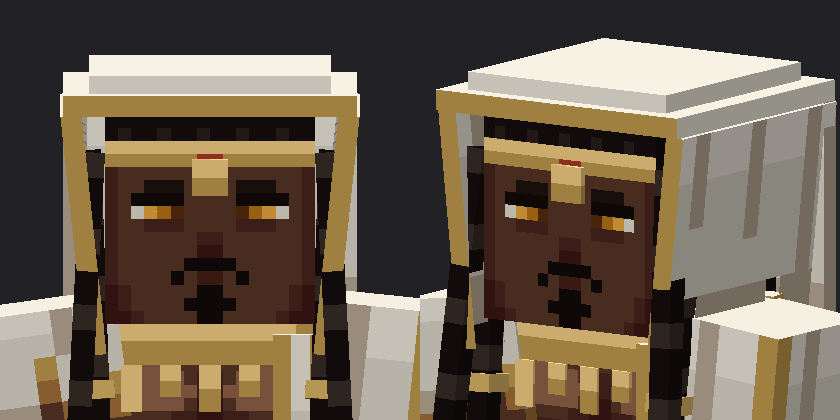
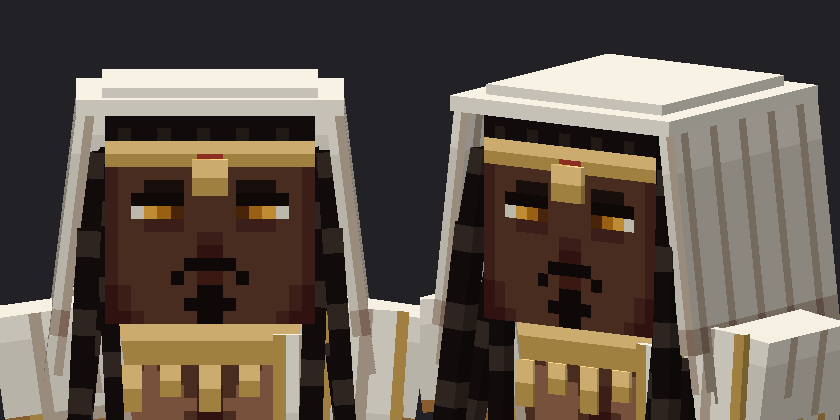
Sacerdote boceto 2: figura esbelta, manto hasta los tobillos, capucha que cae
- Altura 40 (torso 14, piernas 18), cabeza igual
- Manto trasero en 3 paneles con caida distinta y picos irregulares
- Caida larga del lado izquierdo hasta los tobillos
- Capucha mas chica, costados que se abren con borde irregular, sin marco dorado
- Rastas de distinto largo, grosor, angulo y anillos
- Sandalias con correas finas y piel visible; abdomen completo hasta la faja

Claude-Session: https://claude.ai/code/session_01JLSuk79QgXUucDMTiBYitK

Changed region(s): [[0.0, 0.0929, 1.0, 1.0], [0.65, 0.8667, 0.7119, 0.9286]]

diff --git a/taller/personajes/sacerdote.py b/taller/personajes/sacerdote.py
@@ -9,7 +9,7 @@ muñequeras y sandalias con correas.
 
 from ..kit import Personaje, dibujo, mezclar_pintores, sprite, tonos
 from ..pintura import metal
-from ..textura import TRANSPARENTE, hex_a_rgba
+from ..textura import TRANSPARENTE, azar, hex_a_rgba
 
 PIEL = tonos("#5A3828")
 PELO = "#16100E"
@@ -61,9 +61,9 @@ TORSO = dibujo("""
     PPPPPppqqppPPPPP
     PPPPPLLqqLLPPPPP
     PPPPLLLqqLLLPPPP
-    PPPPPppqqppPPPPP
-    PPPpPPPqqPPPpPPP
-    PPPPpPPPPPPpPPPP
+    PPpPPppqqppPPpPP
+    PPPpPPPPPPPPpPPP
+    PPPPpPPqqPPpPPPP
     PPPPPpPPPPpPPPPP
     PPPPPPpPPpPPPPPP
     PPPPPPPppPPPPPPP
@@ -92,23 +92,6 @@ PANEL = dibujo("""
     ...GG...
 """)
 PAL_PANEL = {"G": ORO["b"], "g": ORO["h"], "D": OSCURO["b"], "d": OSCURO["s"]}
-
-PIERNA = dibujo("""
-    PPPP
-    PPPP
-    PPPP
-    PPPP
-    PPPP
-    PPPP
-    PPPP
-    PPPP
-    kPPk
-    PkkP
-    kPPk
-    PkkP
-    kPPk
-    kkkk
-""")
 
 MUNEQUERA = dibujo("""
     GGGG
@@ -177,48 +160,83 @@ def piel_lisa(t):
     return hex_a_rgba(PIEL["s"] if t.fila_abajo == 0 and t.th > 2 else PIEL["b"])
 
 
+def picos(sem, prof=6, minimo=2, maximo=5, largo=96):
+    """Cortes por columna que dejan el borde de la tela en picos triangulares irregulares."""
+    out = []
+    k = 0
+    while len(out) < largo:
+        ancho = minimo + int(azar(sem, k, 1) * (maximo - minimo + 1))
+        hondo = 1 + int(azar(sem, k, 2) * prof)
+        for c in range(ancho):
+            mitad = (ancho - 1) / 2
+            out.append(round(abs(c - mitad) / max(0.5, mitad) * hondo))
+        k += 1
+    return out
+
+
+def pierna_sandalia(t):
+    """Piel con correas finas que suben cruzadas (piel visible entre las tiras)."""
+    if t.cara == "down":
+        return hex_a_rgba(PIEL["s"])
+    if t.cara == "up":
+        return hex_a_rgba(PIEL["b"])
+    h = t.fila_abajo
+    if h < 9 and ((t.i + h) % 7 == 0 or (t.i - h) % 7 == 0):
+        return hex_a_rgba(CUERO)
+    if h == 9:
+        return hex_a_rgba(CUERO)
+    return hex_a_rgba(PIEL["s"] if t.i in (0, t.tw - 1) else PIEL["b"])
+
+
 # ---------------------------------------------------------------- construccion
 
 def construir():
-    p = Personaje("sacerdote", altura=34)              # piernas mas largas: figura esbelta
-    C, L = p.cuello, p.lh                                # C = cuello (26), L = cintura (14)
+    # figura esbelta: cabeza normal (8), torso y piernas mas largos
+    p = Personaje("sacerdote", altura=40, torso=(8, 14, 4), brazo=(3.5, 4))
+    C, L = p.cuello, p.lh                                # C = cuello (32), L = cintura (18)
     oro = metal(ORO["b"], 3)
     oro_gema = metal(ORO["b"], 4, gema="#B03A2A")
 
     cabeza = sprite({"north": CARA}, PAL_CARA,
                     base=lambda t: hex_a_rgba(PELO if t.cara != "down" else PIEL["s"]))
     torso = sprite({"north": TORSO}, PAL_TORSO, base=piel_lisa)
-    pierna = sprite({"lados": PIERNA}, {"P": PIEL["b"], "k": CUERO}, base=piel_lisa)
-    p.cuerpo(cabeza=cabeza, torso=torso, brazo=piel_lisa, pierna=pierna, dens=2)
+    p.cuerpo(cabeza=cabeza, torso=torso, brazo=piel_lisa, pierna=pierna_sandalia, dens=2)
 
-    # ---- capucha: tela mas ancha que la cabeza, redondeada arriba, que cae a los costados y la espalda
-    capu = tela_blanca(oro_abajo=False, semilla=1, oro_frente=True)
-    p.caja("Head/capucha", "capucha_arriba", (-5.6, C + 8.0, -4.9), (5.6, C + 8.8, 5.6), capu)
-    p.caja("Head/capucha", "capucha_cima", (-4.6, C + 8.8, -4.2), (4.6, C + 9.5, 4.8),
+    # ---- capucha: mas chica, cima redondeada, costados que caen a los hombros con borde irregular
+    p.caja("Head/capucha", "capucha_arriba", (-5.1, C + 8.0, -4.7), (5.1, C + 8.6, 5.2),
+           tela_blanca(oro_abajo=False, semilla=1))
+    p.caja("Head/capucha", "capucha_cima", (-4.1, C + 8.6, -3.7), (4.1, C + 9.0, 4.4),
            tela_blanca(oro_abajo=False, semilla=2))
-    p.par("Head/capucha", "capucha_lado", (4.9, C - 1.2, -4.6), (5.7, C + 8.0, 5.6),
-          tela_blanca(cortes=[0, 1, 2, 1, 3, 0], oro_abajo=False, semilla=3, oro_frente=True),
-          rot=(0, 0, -6), piv=(5.3, C + 8.0, 0))
-    p.caja("Head/capucha", "capucha_atras", (-5.6, C - 2.0, 4.9), (5.6, C + 8.0, 5.7),
-           tela_blanca(cortes=[0, 1, 3, 1, 0, 2], oro_abajo=False, semilla=4))
-    # caida de la capucha sobre la espalda
-    p.caja("Body/capucha", "capucha_caida", (-4.6, C - 7.0, 2.4), (4.6, C + 0.6, 3.2),
-           tela_blanca(cortes=[0, 1, 2, 1, 0, 2, 3, 1, 0], semilla=5), rot=(-6, 0, 0), piv=(0, C + 0.6, 2.4))
+    p.par("Head/capucha", "capucha_lado", (4.4, C - 2.5, -4.4), (5.1, C + 8.0, 5.2),
+          tela_blanca(cortes=picos(31, prof=4), oro_abajo=False, semilla=3),
+          rot=(0, 0, 7), piv=(4.75, C + 8.0, 0), dens=2)
+    p.caja("Head/capucha", "capucha_atras", (-5.1, C - 3.0, 4.4), (5.1, C + 8.0, 5.2),
+           tela_blanca(cortes=picos(32, prof=5), oro_abajo=False, semilla=4), dens=2)
     p.caja("Head/diadema", "diadema_gema", (-0.7, C + 4.9, -4.25), (0.7, C + 6.3, -4.0), oro_gema)
 
-    # ---- rastas que salen de la capucha enmarcando la cara y caen sobre el pecho
-    for s in (1, -1):
-        for k, (x, z, fondo, giro) in enumerate(((4.45, -3.6, C - 9, 3), (4.6, -2.4, C - 7, -2))):
-            xx = s * x
-            p.caja("Head/rastas", f"rasta_{'d' if s > 0 else 'i'}{k}", (xx - 0.45, fondo, z - 0.45),
-                   (xx + 0.45, C + 6.5, z + 0.45), rasta(k), rot=(7, 0, s * giro), piv=(xx, C + 6.5, z))
-            for y in (fondo + 1.0, fondo + 4.0):
-                p.caja("Head/rastas", f"anillo_{'d' if s > 0 else 'i'}{k}_{int(y)}", (xx - 0.65, y, z - 0.65),
-                       (xx + 0.65, y + 0.7, z + 0.65), oro, rot=(7, 0, s * giro), piv=(xx, C + 6.5, z))
-    for k, x in enumerate((-3.6, -1.8, 0.0, 1.8, 3.6)):          # por la espalda, salen de abajo de la capucha
-        fondo = C - 11 + (k % 2) * 2
-        p.caja("Head/rastas", f"rasta_atras{k}", (x - 0.55, fondo, 4.4), (x + 0.55, C - 1.0, 5.4), rasta(k + 4),
-               rot=(-5, 0, (k - 2) * 2), piv=(x, C - 1.0, 4.9))
+    # ---- rastas irregulares: distinto largo, grosor, angulo y anillos
+    rastas = [  # (x, z, fondo relativo al cuello, grosor, giro_z, giro_x, anillos)
+        (4.45, -3.6, -10.5, 0.9, 3, 7, 2), (4.15, -2.5, -6.0, 0.7, -3, 5, 1), (3.8, -1.7, -8.5, 0.8, 6, 10, 1),
+        (-4.45, -3.6, -8.0, 0.8, -4, 8, 1), (-4.2, -2.4, -11.5, 0.9, 2, 6, 2), (-3.8, -1.6, -6.5, 0.7, -7, 10, 1),
+    ]
+    for k, (x, z, fondo, g, rz, rx, anillos) in enumerate(rastas):
+        h = g / 2
+        p.caja("Head/rastas", f"rasta{k}", (x - h, C + fondo, z - h), (x + h, C + 6.5, z + h), rasta(k),
+               rot=(rx, 0, rz), piv=(x, C + 6.5, z))
+        for a in range(anillos):
+            y = C + fondo + 0.8 + a * 3.2
+            p.caja("Head/rastas", f"anillo{k}_{a}", (x - h - 0.2, y, z - h - 0.2), (x + h + 0.2, y + 0.7, z + h + 0.2),
+                   oro, rot=(rx, 0, rz), piv=(x, C + 6.5, z))
+    atras = [(-3.8, -9, 1.0, -3), (-2.4, -13, 0.8, 2), (-1.0, -10, 1.1, -1), (0.6, -14, 0.9, 3), (2.0, -9.5, 1.0, -2),
+             (3.5, -12, 0.8, 4)]
+    for k, (x, fondo, g, rz) in enumerate(atras):
+        h = g / 2
+        p.caja("Head/rastas", f"rasta_atras{k}", (x - h, C + fondo, 4.9 - h), (x + h, C - 2.0, 4.9 + h), rasta(k + 6),
+               rot=(-5, 0, rz), piv=(x, C - 2.0, 4.9))
+        if k % 2 == 0:
+            y = C + fondo + 1.0
+            p.caja("Head/rastas", f"anillo_atras{k}", (x - h - 0.2, y, 4.7 - h), (x + h + 0.2, y + 0.7, 5.1 + h), oro,
+                   rot=(-5, 0, rz), piv=(x, C - 2.0, 4.9))
 
     # ---- collar ancho dorado con colgantes
     p.caja("Body/collar", "collar", (-4.6, C - 1.7, -2.6), (4.6, C + 0.1, 2.6), oro)
@@ -226,58 +244,66 @@ def construir():
         largo = 1.8 if k % 2 == 0 else 1.2
         p.caja("Body/collar", f"colgante{k}", (x - 0.4, C - 1.7 - largo, -2.75), (x + 0.4, C - 1.7, -2.6), oro)
 
-    # ---- manto sobre los hombros: derecho corto, izquierdo largo (cae hasta la rodilla)
-    p.caja("RightArm/manto", "manto_hombro", (3.6, C - 4.6, -2.7), (8.7, C + 0.7, 2.7),
-           tela_blanca(cortes=[0, 2, 1, 3, 1, 0], semilla=5), rot=(0, 0, -8), piv=(4.0, C + 0.7, 0))
-    p.caja("LeftArm/manto", "manto_largo", (-8.9, C - 15, -2.8), (-3.4, C + 0.8, 2.8),
-           tela_blanca(cortes=[0, 2, 4, 1, 3, 5, 2, 0], oro_lados=True, semilla=6), rot=(0, 0, 6),
-           piv=(-4.0, C + 0.8, 0))
-    p.caja("Body/manto", "manto_atras", (-5.0, L - 7, 2.4), (5.0, C + 0.8, 3.1),
-           tela_blanca(cortes=[0, 2, 1, 4, 2, 0, 3, 1, 2, 5, 1], oro_lados=True, semilla=7), rot=(-5, 0, 0),
-           piv=(0, C + 0.8, 2.4))
-    # estola que cae por delante del lado izquierdo, con capa oscura debajo
-    p.caja("Body/manto", "estola_oscura", (-4.9, L - 7, -2.75), (-2.9, C - 2, -2.3), tela_oscura(1, [0, 2, 1]))
-    p.caja("Body/manto", "estola", (-4.5, L - 6, -3.05), (-2.4, C - 0.5, -2.7),
-           tela_blanca(cortes=[0, 2, 4, 1], oro_lados=True, semilla=8))
+    # ---- manto: hombros cortos, atras hasta los tobillos en 3 paneles con caida distinta y picos
+    for lado in (1, -1):
+        hueso = "RightArm" if lado > 0 else "LeftArm"
+        x1, x2 = sorted((lado * 3.6, lado * 8.4))
+        p.caja(f"{hueso}/manto", "manto_hombro", (x1, C - 4.6, -2.7), (x2, C + 0.7, 2.7),
+               tela_blanca(cortes=picos(40 + lado, prof=3), semilla=5), rot=(0, 0, -8 * lado),
+               piv=(lado * 3.8, C + 0.7, 0), dens=2)
+    paneles = [(-5.3, -2.3, 1.0, 3, -7), (-2.6, 2.6, 0.5, 0, -4), (2.3, 5.3, 2.0, -3, -6)]
+    for k, (x1, x2, fondo, rz, rx) in enumerate(paneles):
+        p.caja("Body/manto", f"manto_atras{k}", (x1, fondo, 2.4 + k * 0.05), (x2, C + 0.8, 3.0 + k * 0.05),
+               tela_blanca(cortes=picos(50 + k, prof=7), oro_lados=(k != 1), semilla=6 + k), rot=(rx, 0, rz),
+               piv=((x1 + x2) / 2, C + 0.8, 2.6), dens=2)
+    # caida larga del lado izquierdo, por delante, hasta los tobillos
+    p.caja("Body/manto", "caida_oscura", (-7.2, 2.5, -2.85), (-3.8, C - 2.0, -2.45),
+           tela_oscura(1, picos(60, prof=5)), rot=(0, 0, 3), piv=(-5.5, C - 2.0, -2.6), dens=2)
+    p.caja("Body/manto", "caida", (-7.6, 1.2, -3.25), (-4.4, C + 0.5, -2.85),
+           tela_blanca(cortes=picos(61, prof=8), oro_lados=True, semilla=9), rot=(0, 0, 4),
+           piv=(-6.0, C + 0.5, -3.0), dens=2)
+    # estola interior
+    p.caja("Body/manto", "estola", (-4.4, L - 9, -3.05), (-2.4, C - 0.5, -2.7),
+           tela_blanca(cortes=picos(62, prof=4, minimo=2, maximo=3), oro_lados=True, semilla=10), dens=2)
 
     # ---- brazaletes y muñequeras doradas
     for lado in (1, -1):
         hueso = "RightArm" if lado > 0 else "LeftArm"
-        x1, x2 = sorted((lado * 3.8, lado * 8.2))
-        p.caja(f"{hueso}/oro", "brazalete", (x1, C - 6.0, -2.2), (x2, C - 5.0, 2.2), oro)
-        x1, x2 = sorted((lado * 3.75, lado * 8.25))
-        p.caja(f"{hueso}/oro", "munequera", (x1, C - 9.2, -2.25), (x2, C - 6.6, 2.25),
+        x1, x2 = sorted((lado * 3.8, lado * 7.7))
+        p.caja(f"{hueso}/oro", "brazalete", (x1, C - 6.2, -2.2), (x2, C - 5.2, 2.2), oro)
+        x1, x2 = sorted((lado * 3.75, lado * 7.75))
+        p.caja(f"{hueso}/oro", "munequera", (x1, C - 11.4, -2.25), (x2, C - 8.6, 2.25),
                mezclar_pintores(sprite({"lados": MUNEQUERA}, {"G": ORO["b"], "g": ORO["s"]}), oro), dens=2)
 
     # ---- faja oscura, broche y punta colgante
     p.caja("Body/faja", "faja", (-4.75, L - 0.2, -2.75), (4.75, L + 2.0, 2.75), tela_oscura(2))
     p.caja("Body/faja", "broche", (-2.6, L + 0.2, -3.05), (-1.0, L + 1.6, -2.75), oro_gema)
-    p.caja("Body/faja", "punta", (-3.4, L - 4, -2.95), (-2.2, L, -2.8), tela_oscura(3, [0, 1]), rot=(0, 0, -6),
-           piv=(-2.8, L, -2.9))
+    p.caja("Body/faja", "punta", (-3.4, L - 5, -2.95), (-2.2, L, -2.8), tela_oscura(3, [0, 1, 2, 1]),
+           rot=(0, 0, -6), piv=(-2.8, L, -2.9), dens=2)
 
-    # ---- panel frontal oscuro con triangulos y sol dorados (termina en punta)
-    p.caja("Body/panel", "panel", (-2.0, L - 9.5, -3.2), (2.0, L + 0.5, -2.8),
+    # ---- panel frontal oscuro con triangulos y sol dorados (termina en punta, debajo de la rodilla)
+    p.caja("Body/panel", "panel", (-2.0, L - 12.5, -3.2), (2.0, L + 0.5, -2.8),
            sprite({"north": PANEL, "south": PANEL}, PAL_PANEL, base=tela_oscura(4)), dens=2,
            rot=(4, 0, 0), piv=(0, L + 0.5, -3))
 
-    # ---- falda blanca en capas, borde anguloso (en las piernas)
+    # ---- falda blanca en capas con picos (en las piernas)
     for lado in (1, -1):
         hueso = "RightLeg" if lado > 0 else "LeftLeg"
         x1, x2 = sorted((0, lado * 4.7))
-        p.caja(f"{hueso}/falda", "falda", (x1, L * 0.36, -2.7), (x2, L + 0.4, 2.7),
-               tela_blanca(cortes=[0, 1, 3, 1, 0, 2], semilla=9 + lado))
-    p.caja("RightLeg/falda", "falda_capa", (0.4, L * 0.22, -3.0), (4.9, L + 0.2, -2.75),
-           tela_blanca(cortes=[0, 2, 4, 2, 0, 3], oro_lados=True, semilla=11), rot=(6, 0, 0),
-           piv=(2.6, L + 0.2, -2.9))
-    p.caja("LeftLeg/falda", "falda_oscura", (-5.0, L * 0.25, -2.6), (-4.6, L, 2.6), tela_oscura(5, [0, 2, 1, 3]),
-           rot=(0, 0, -5), piv=(-4.8, L, 0))
+        p.caja(f"{hueso}/falda", "falda", (x1, L * 0.38, -2.7), (x2, L + 0.4, 2.7),
+               tela_blanca(cortes=picos(70 + lado, prof=4), semilla=9 + lado), dens=2)
+        x1, x2 = sorted((lado * 0.3, lado * 5.0))
+        p.caja(f"{hueso}/falda", "falda_capa", (x1, L * 0.5, -3.0), (x2, L + 0.2, -2.75),
+               tela_blanca(cortes=picos(72 + lado, prof=6), oro_lados=True, semilla=11), rot=(6, 0, -3 * lado),
+               piv=((x1 + x2) / 2, L + 0.2, -2.9), dens=2)
+    p.caja("LeftLeg/falda", "falda_oscura", (-5.0, L * 0.3, -2.6), (-4.6, L, 2.6), tela_oscura(5, picos(74, prof=4)),
+           rot=(0, 0, -5), piv=(-4.8, L, 0), dens=2)
 
-    # ---- sandalias: suela, tira de los dedos, tobillera y correas finas que suben cruzadas (pintadas en la pierna)
+    # ---- sandalias: suela, tira de los dedos y atadura dorada arriba de las correas
     for lado in (1, -1):
         hueso = "RightLeg" if lado > 0 else "LeftLeg"
         x1, x2 = sorted((lado * -0.1, lado * 4.2))
-        p.caja(f"{hueso}/sandalia", "suela", (x1, 0, -2.7), (x2, 0.5, 2.3), metal(CUERO, 5))
-        p.caja(f"{hueso}/sandalia", "tira_dedos", (x1, 0.5, -2.2), (x2, 1.2, -1.2), metal(CUERO, 6))
-        p.caja(f"{hueso}/sandalia", "tobillera", (x1, 1.6, -2.15), (x2, 2.2, 2.15), metal(CUERO, 7))
-        p.caja(f"{hueso}/sandalia", "correa_oro", (x1, 5.6, -2.2), (x2, 6.1, 2.2), oro)
+        p.caja(f"{hueso}/sandalia", "suela", (x1, 0, -2.8), (x2, 0.45, 2.3), metal(CUERO, 5))
+        p.caja(f"{hueso}/sandalia", "tira_dedos", (x1, 0.45, -2.15), (x2, 0.95, -1.4), metal(CUERO, 6))
+        p.caja(f"{hueso}/sandalia", "atadura", (x1, 4.5, -2.15), (x2, 5.0, 2.15), oro)
     return p
